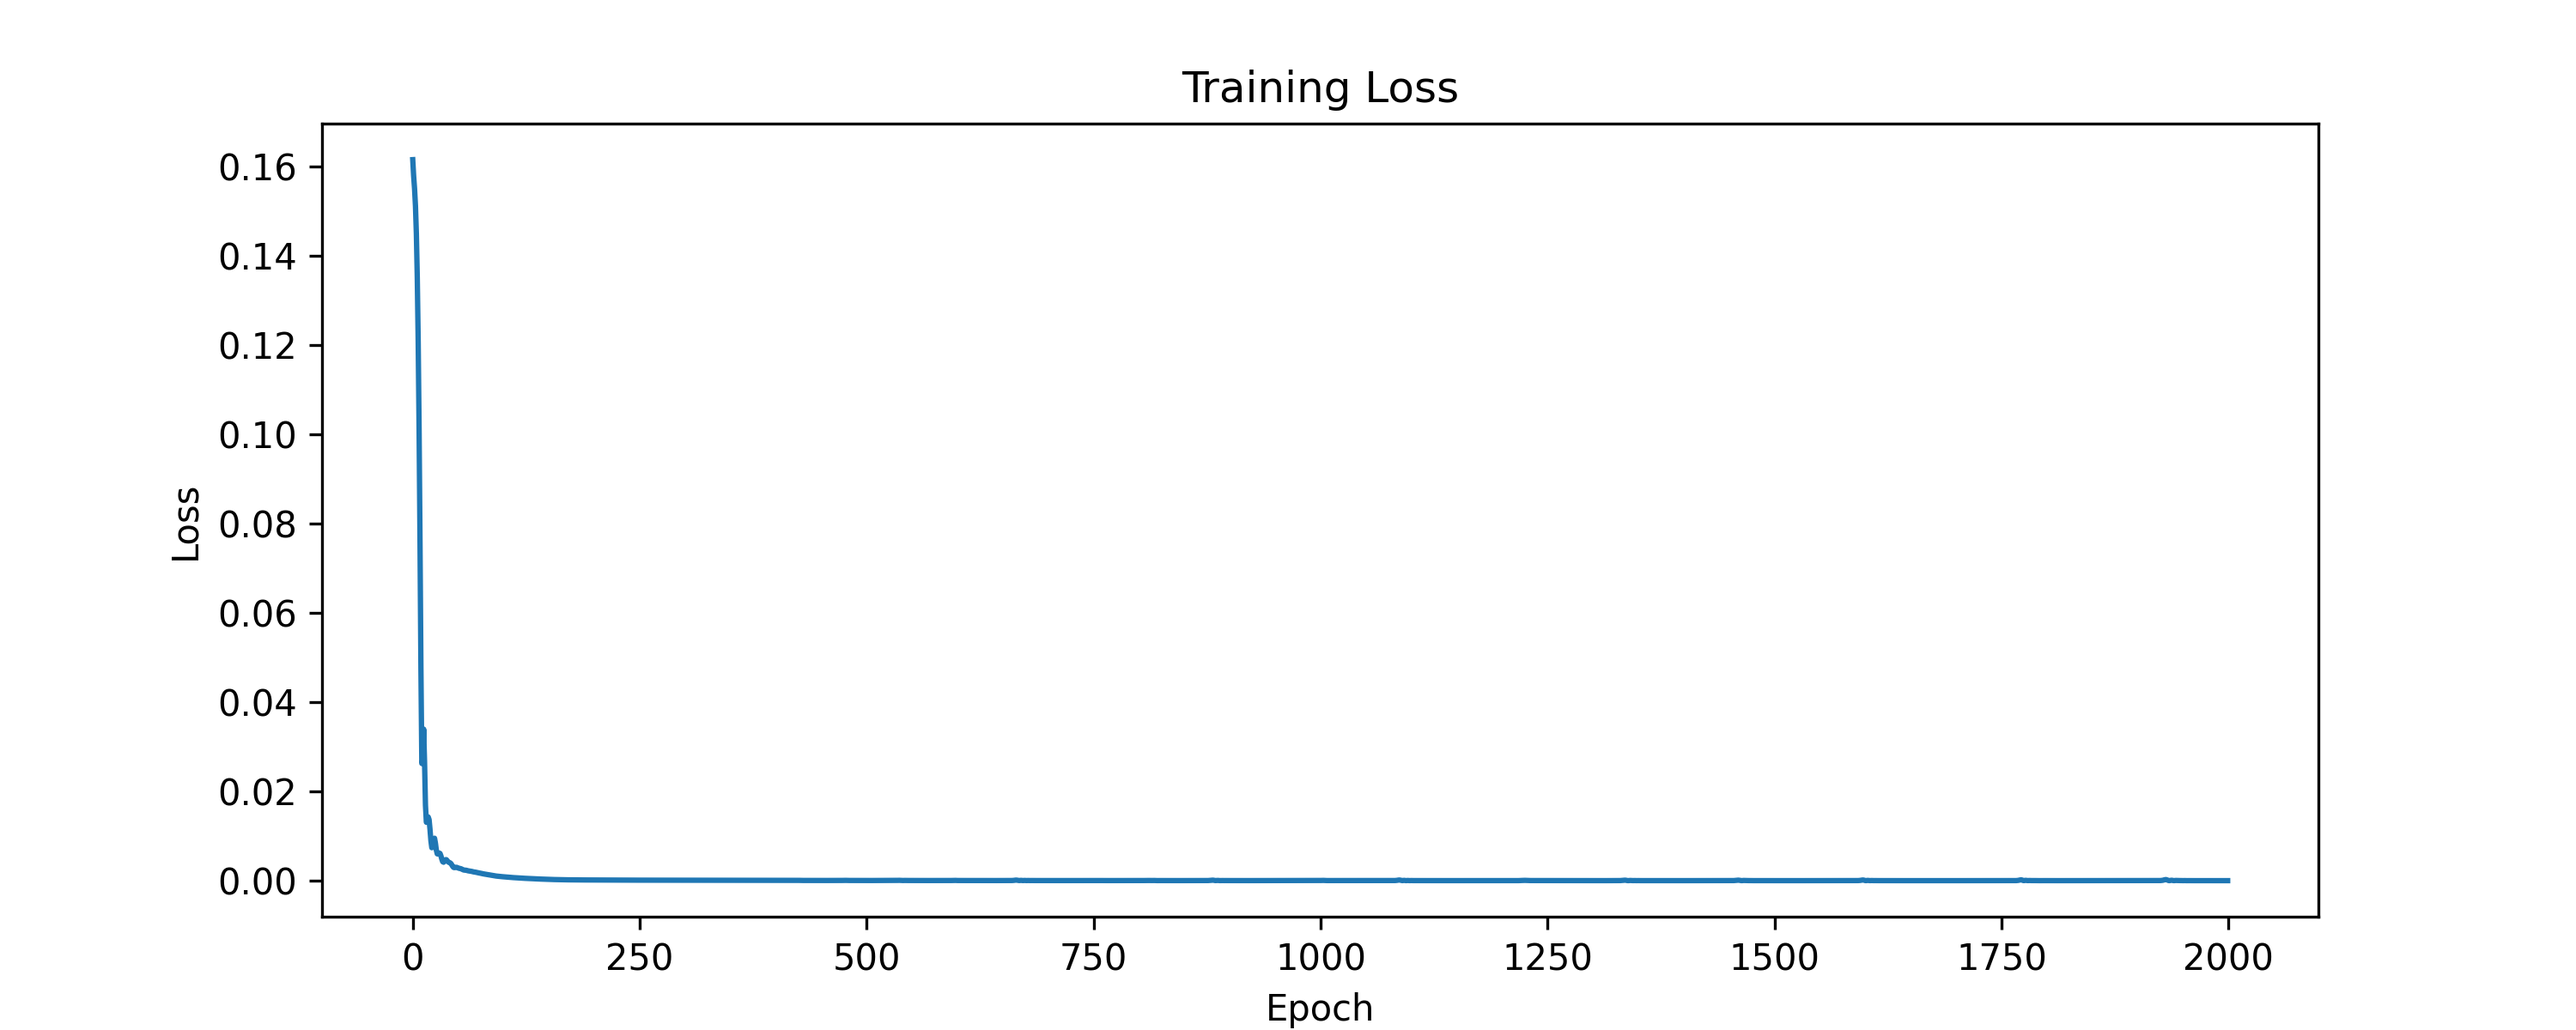
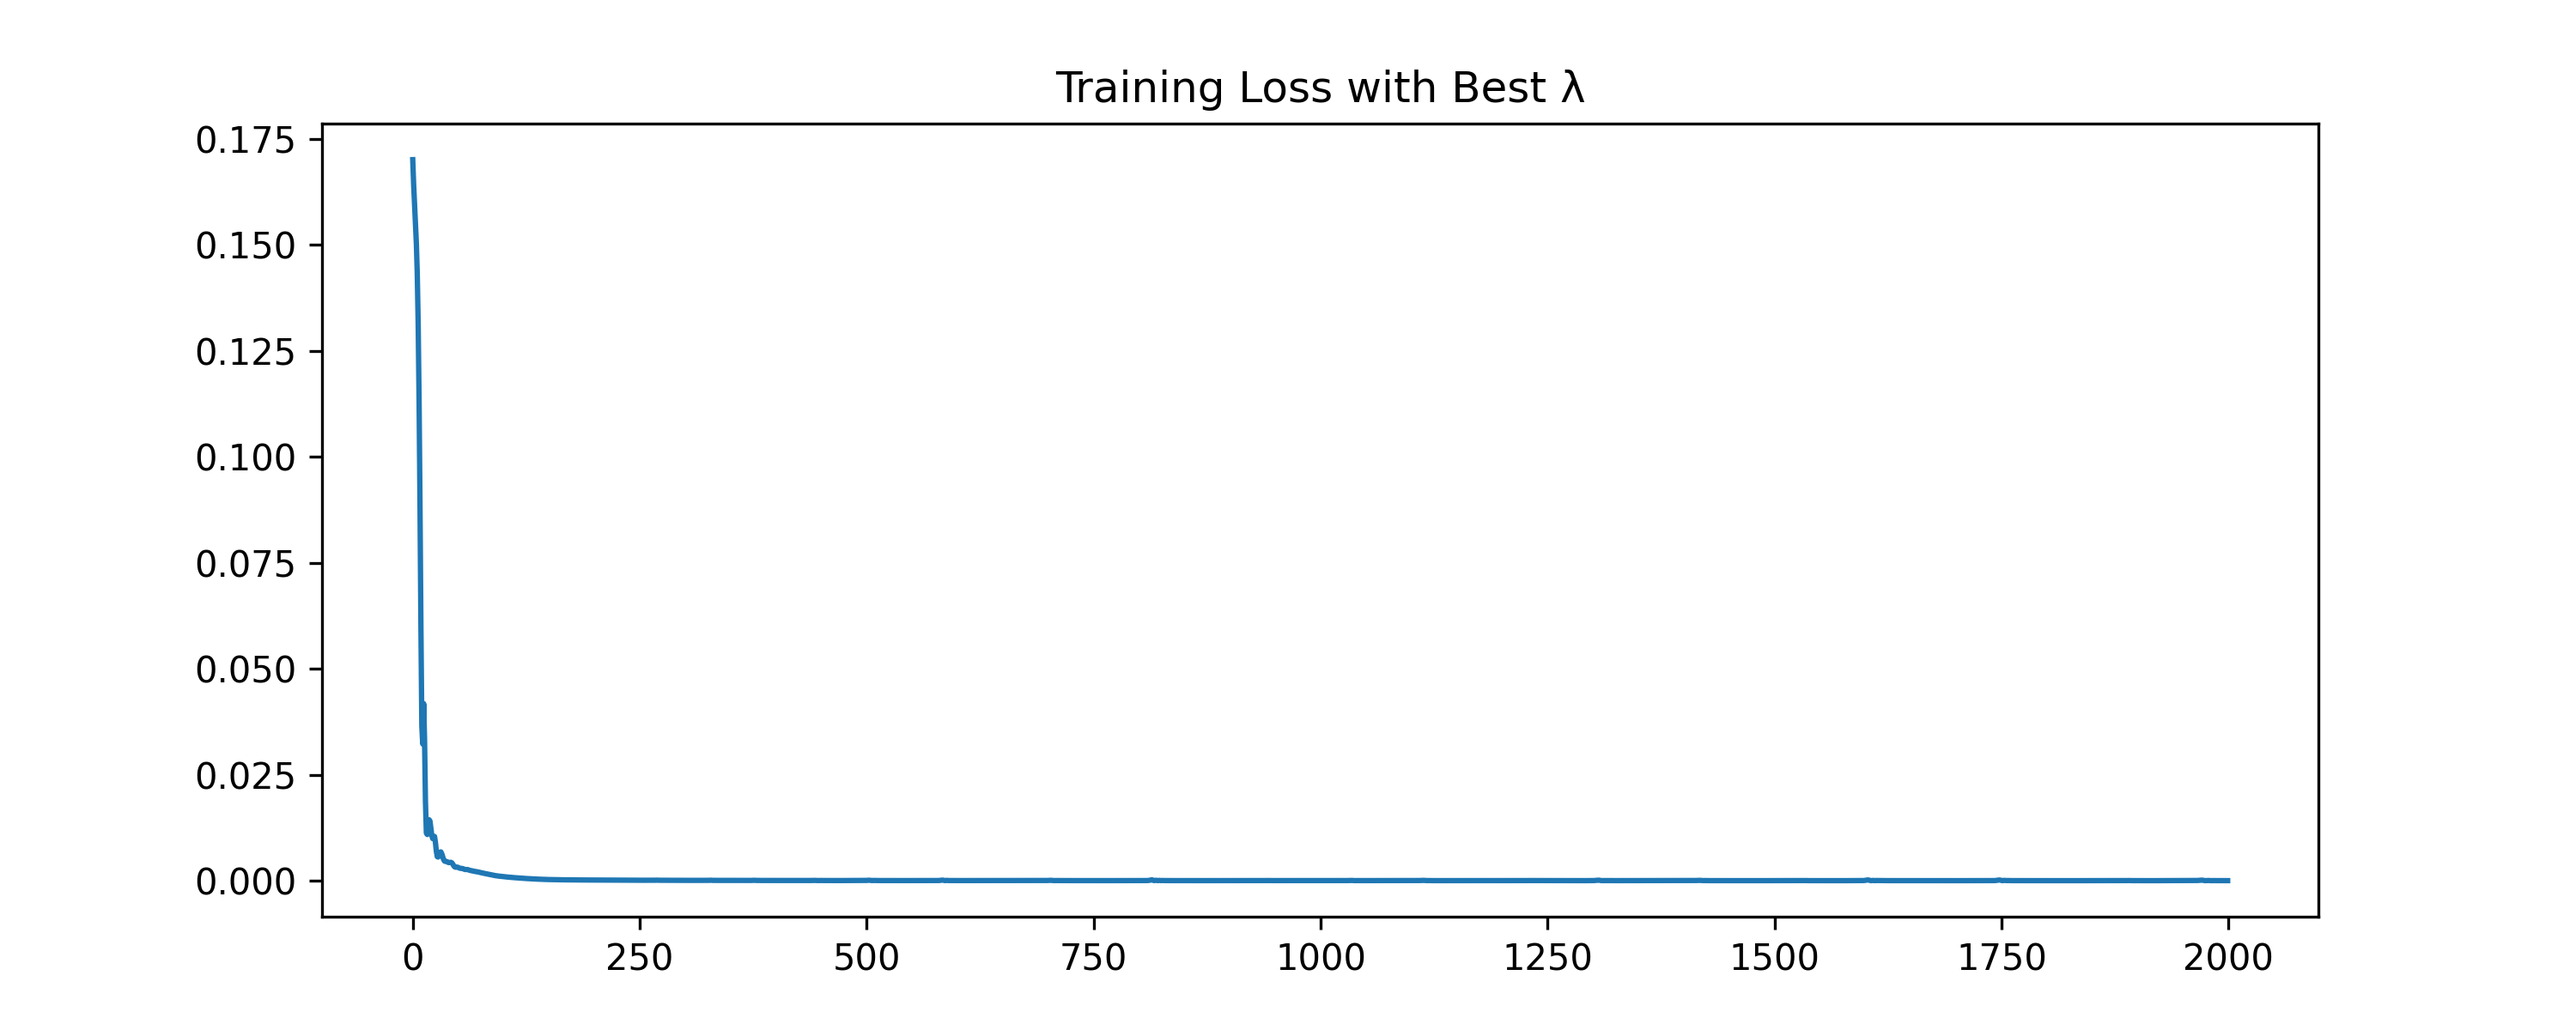
data preparations

diff --git a/2train_1test.py b/2train_1test.py
@@ -9,16 +9,12 @@ import os, time
 
 device = torch.device("cuda" if torch.cuda.is_available() else "cpu")
 
-# ============================================================
 # Paths
-# ============================================================
 data_path = "/Users/qianqiantong/PycharmProjects/corridor_alignment/corridor_data/"
 output_path = "/Users/qianqiantong/PycharmProjects/corridor_alignment/output/"
 os.makedirs(output_path, exist_ok=True)
 
-# ============================================================
 # 1. Load Corridor with slope + curvature
-# ============================================================
 def load_corridor(excel_usgs, excel_track, N=4096):
     df1 = pd.read_excel(excel_usgs)
     df2 = pd.read_excel(excel_track)
@@ -41,18 +37,13 @@ def load_corridor(excel_usgs, excel_track, N=4096):
 
     return x_uni, usgs, track, slope, curvature
 
-# ============================================================
-# Normalize across corridors
-# ============================================================
 def normalize_multi(arr_list):
     all_values = np.concatenate(arr_list)
     mean = all_values.mean()
     std = all_values.std() + 1e-6
     return [(arr - mean)/std for arr in arr_list], mean, std
 
-# ============================================================
-# 2. FNO Model with safe Fourier
-# ============================================================
+
 class SpectralConv1d(nn.Module):
     def __init__(self, in_ch, out_ch, modes):
         super().__init__()
@@ -105,9 +96,7 @@ class FNO1d(nn.Module):
         x = F.gelu(self.fc1(x))
         return self.fc2(x).squeeze(-1)
 
-# ============================================================
-# 3. Loss Functions
-# ============================================================
+
 def slope_loss(pred, true, dx):
     return ((torch.diff(pred)/dx - torch.diff(true)/dx)**2).mean()
 
@@ -115,9 +104,7 @@ def smoothness_loss(pred):
     d2 = torch.diff(pred, n=2)
     return (d2**2).mean()
 
-# ============================================================
-# 4. Load Training Corridors
-# ============================================================
+
 train_corridors = [
     ("Clovis",
      data_path+"usgs_elevation_Clovis-Flagstaff_grade_data.xlsx",
@@ -134,7 +121,7 @@ test_corridor = (
     data_path+"tt_elevation_Barstow-LongBeach_grade_data.xlsx"
 )
 
-# ---- Load raw data ----
+
 X_raw_list, Y_raw_list, slopes_raw, curv_raw, x_raw = [], [], [], [], []
 for _, usgs_path, track_path in train_corridors:
     x, usgs, track, slope, curv = load_corridor(usgs_path, track_path)
@@ -161,7 +148,6 @@ X_norm_list      = split_norm(X_norm_list, split_sizes)
 slopes_norm_list = split_norm(slopes_norm_list, split_sizes)
 curv_norm_list   = split_norm(curv_norm_list, split_sizes)
 
-# ---- build training tensor ----
 X_train_list, Y_train_list = [], []
 for i in range(len(X_raw_list)):
     xnorm = x_raw[i] / x_raw[i].max()
@@ -175,9 +161,6 @@ Y_train = torch.tensor(np.stack(Y_train_list), dtype=torch.float32).to(device)
 
 dx = x_raw[0][1] - x_raw[0][0]
 
-# ============================================================
-# 5. Load Test Corridor
-# ============================================================
 x_test, usgs_test, true_test, s_test, c_test = load_corridor(
     test_corridor[1], test_corridor[2]
 )
@@ -193,9 +176,7 @@ X_test = torch.tensor(np.stack([
 Y_test = torch.tensor((true_test - mean_e)/std_e,
                       dtype=torch.float32).unsqueeze(0).to(device)
 
-# ============================================================
-# 6. AUTO TUNING λ (slope, smooth)
-# ============================================================
+
 lambda_candidates = []
 lambda_scores = []
 
@@ -247,9 +228,7 @@ plt.ylabel("Score (lower=better)")
 plt.savefig(output_path + "lambda_search_curve.png", dpi=300)
 plt.close()
 
-# ============================================================
-# 7. Training with best λ
-# ============================================================
+# Training with best λ
 model = FNO1d().to(device)
 opt = torch.optim.Adam(model.parameters(), lr=1e-3)
 
@@ -271,9 +250,8 @@ for ep in range(epochs):
     if ep % 200 == 0:
         print(f"[{ep}] loss = {loss.item():.6f}")
 
-# ============================================================
-# 8. Evaluate, Save Results
-# ============================================================
+
+# Evaluate, Save Results
 model.eval()
 train_pred = model(X_train).cpu().detach().numpy() * std_e + mean_e
 test_pred = model(X_test).cpu().detach().numpy()[0] * std_e + mean_e
